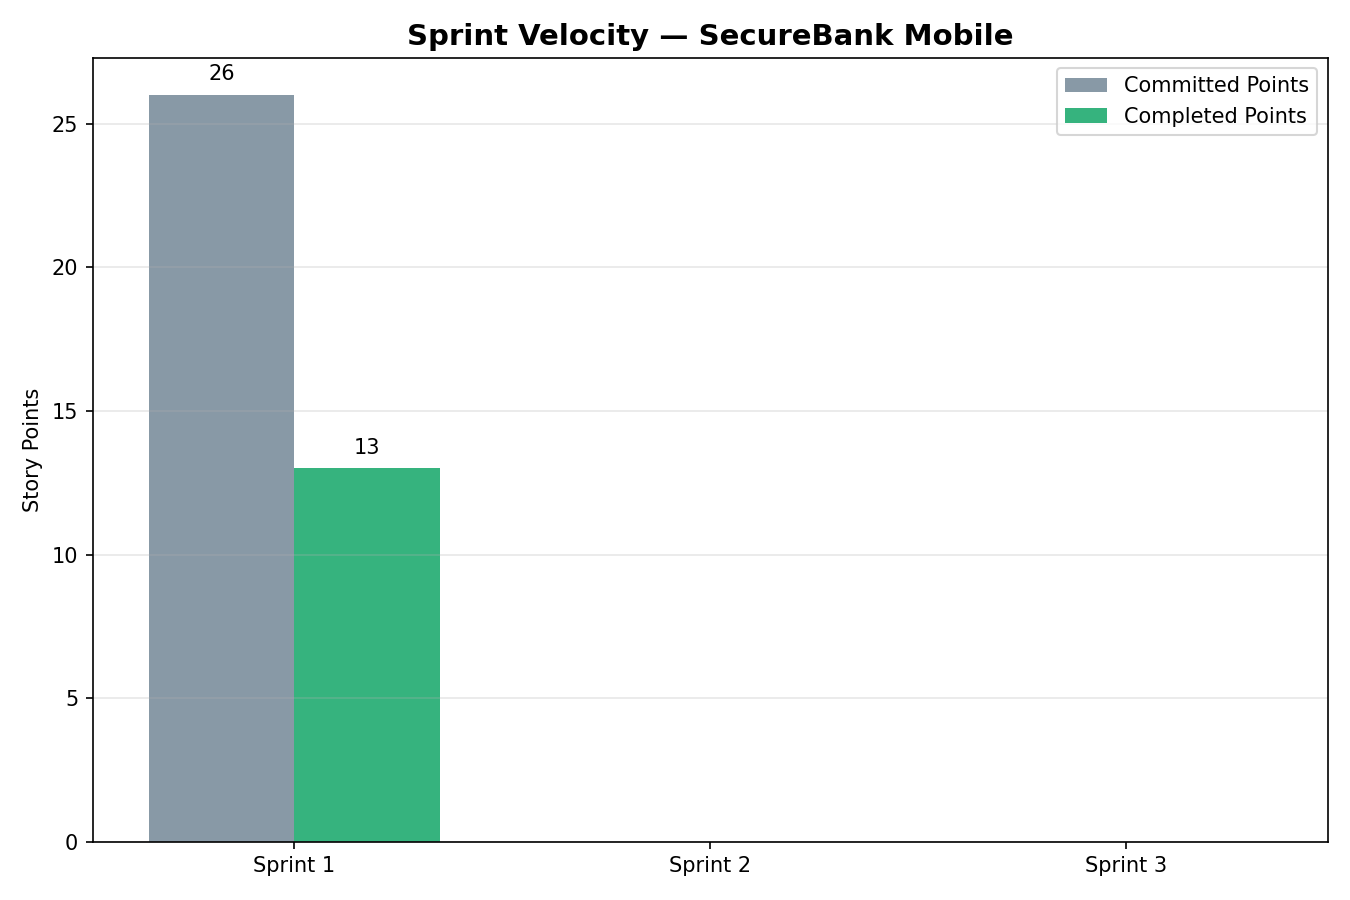
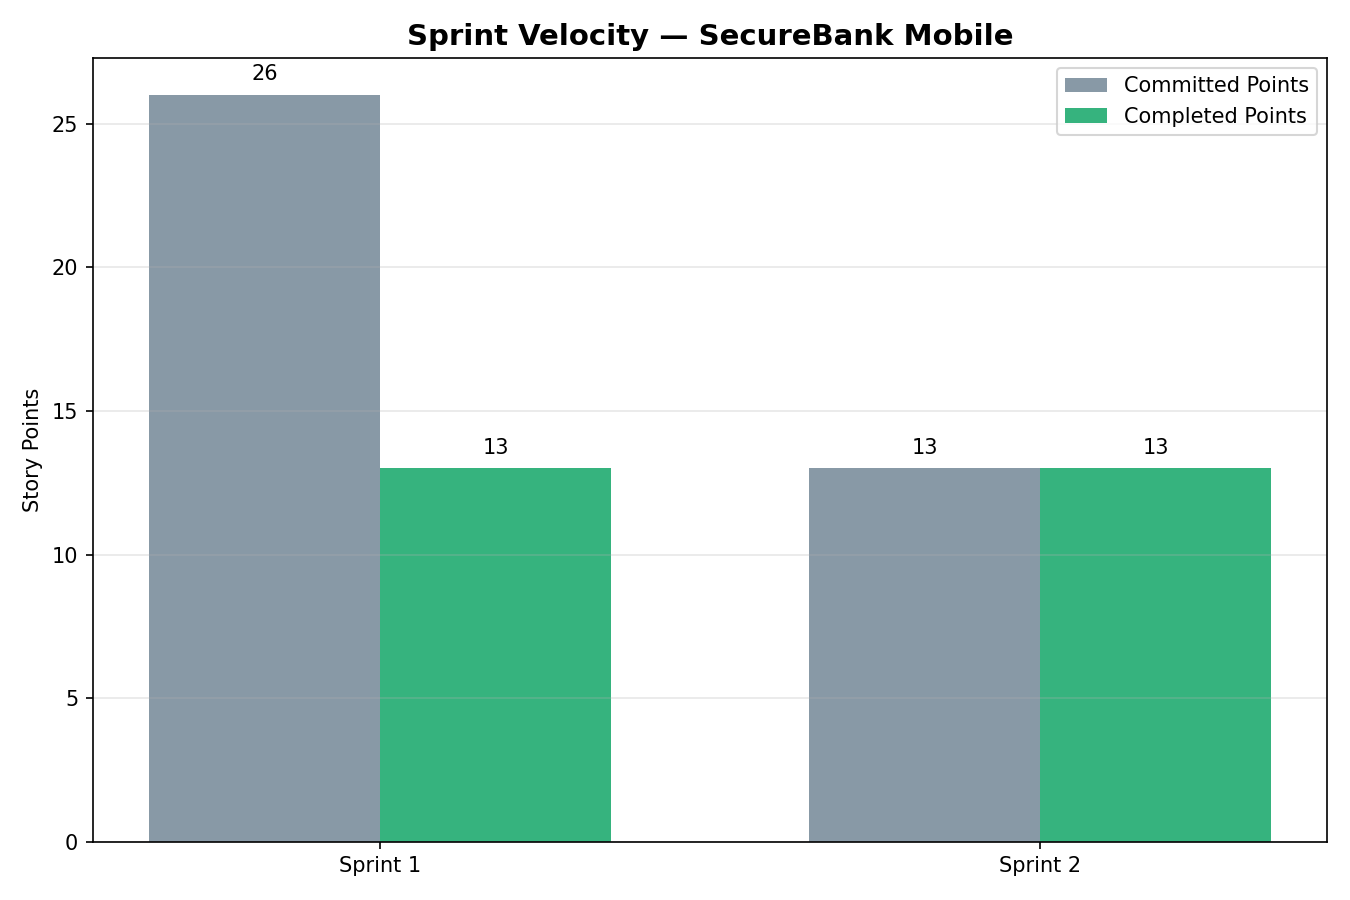
Add Sprint 2 data and burndown chart, refactor script for extensibility

diff --git a/scripts/sprint_charts.py b/scripts/sprint_charts.py
@@ -2,6 +2,10 @@
 SecureBank Mobile - Sprint Reporting Tool
 Generates Burndown and Velocity charts from sprint data.
 Built because the team's Jira tier did not include native burndown/velocity reports.
+
+To add a new sprint: append a new entry to the SPRINTS list below with the
+sprint's dates, committed points, and day-by-day remaining work, then re-run
+this script. All charts regenerate automatically.
 """
 
 import matplotlib.pyplot as plt
@@ -9,127 +13,152 @@ import matplotlib.dates as mdates
 from datetime import datetime, timedelta
 
 # ----------------------------
-# SPRINT 1 DATA (from Jira)
+# SPRINT DATA (from Jira)
 # ----------------------------
-SPRINT_NAME = "Sprint 1"
-START_DATE = datetime(2026, 7, 21)
-END_DATE = datetime(2026, 8, 4)
-COMMITTED_POINTS = 26
-
-# Stories completed in Sprint 1, with points
-COMPLETED_STORIES = {
-    "SCRUM-3 (Fingerprint login)": 5,
-    "SCRUM-4 (Face ID login)": 3,
-    "SCRUM-8 (Auto-logout)": 2,
-    "SCRUM-9 (Audit logging)": 3,
-}
-
-# Stories carried over to Sprint 2
-CARRIED_OVER_STORIES = {
-    "SCRUM-5 (MFA setup)": 5,
-    "SCRUM-7 (Password reset)": 5,
-    "SCRUM-30 (Fraud alert - unrecognized country)": 3,
-}
-
-TOTAL_COMPLETED = sum(COMPLETED_STORIES.values())
-TOTAL_CARRIED = sum(CARRIED_OVER_STORIES.values())
-
-# Simulated day-by-day actual remaining work (since Jira tier had no native burndown).
-# Reflects realistic pattern: slow start, mid-sprint scope change (SCRUM-30 added),
-# late completions of SCRUM-3/4/8/9.
-sprint_days = [(START_DATE + timedelta(days=i)) for i in range(11)]  # 10 working days + start
-actual_remaining = [26, 26, 24, 24, 21, 21, 21, 24, 19, 16, 13]  # bump at day 6 = scope change (+3 SCRUM-30)
-
-# Ideal burndown: linear from committed points to 0 over the sprint
-ideal_remaining = [
-    COMMITTED_POINTS - (COMMITTED_POINTS / (len(sprint_days) - 1)) * i
-    for i in range(len(sprint_days))
+SPRINTS = [
+    {
+        "name": "Sprint 1",
+        "start": datetime(2026, 7, 21),
+        "end": datetime(2026, 8, 4),
+        "committed": 26,
+        "completed_stories": {
+            "SCRUM-3 (Fingerprint login)": 5,
+            "SCRUM-4 (Face ID login)": 3,
+            "SCRUM-8 (Auto-logout)": 2,
+            "SCRUM-9 (Audit logging)": 3,
+        },
+        "carried_over_stories": {
+            "SCRUM-5 (MFA setup)": 5,
+            "SCRUM-7 (Password reset)": 5,
+            "SCRUM-30 (Fraud alert - unrecognized country)": 3,
+        },
+        # Simulated day-by-day actual remaining work (Jira tier had no native burndown).
+        # Bump at day 6 reflects a mid-sprint scope change (+3 pts, SCRUM-30 added,
+        # SCRUM-6 removed to hold total steady).
+        "actual_remaining": [26, 26, 24, 24, 21, 21, 21, 24, 19, 16, 13],
+        "scope_change": {
+            "day_index": 6,
+            "label": "Scope change:\n+3 pts (SCRUM-30 added,\nSCRUM-6 removed)",
+        },
+    },
+    {
+        "name": "Sprint 2",
+        "start": datetime(2026, 8, 5),
+        "end": datetime(2026, 8, 18),
+        "committed": 13,
+        "completed_stories": {
+            "SCRUM-5 (MFA setup)": 5,
+            "SCRUM-7 (Password reset)": 5,
+            "SCRUM-30 (Fraud alert - unrecognized country)": 3,
+        },
+        "carried_over_stories": {},
+        # Clean, steady completion - no scope change this sprint. Capacity was
+        # recalibrated to Sprint 1's actual velocity (13 pts), and the team hit it.
+        "actual_remaining": [13, 13, 11, 10, 8, 8, 6, 5, 3, 2, 0],
+        "scope_change": None,
+    },
+    # To add Sprint 3, copy the block above, fill in real data, and re-run.
 ]
 
-# ----------------------------
-# CHART 1: BURNDOWN CHART
-# ----------------------------
-fig, ax = plt.subplots(figsize=(10, 6))
 
-ax.plot(sprint_days, ideal_remaining, linestyle="--", color="#8899A6",
-        linewidth=2, label="Ideal Burndown")
-ax.plot(sprint_days, actual_remaining, marker="o", color="#2684FF",
-        linewidth=2.5, label="Actual Remaining Work")
+def total_points(stories: dict) -> int:
+    return sum(stories.values())
 
-# Annotate the scope-change bump
-ax.annotate(
-    "Scope change:\n+3 pts (SCRUM-30 added,\nSCRUM-6 removed)",
-    xy=(sprint_days[6], actual_remaining[6]),
-    xytext=(sprint_days[6] + timedelta(days=0.3), actual_remaining[6] + 4),
-    arrowprops=dict(arrowstyle="->", color="#FF5630"),
-    fontsize=9, color="#FF5630"
-)
 
-ax.set_title(f"{SPRINT_NAME} Burndown Chart — SecureBank Mobile", fontsize=14, fontweight="bold")
-ax.set_xlabel("Date")
-ax.set_ylabel("Remaining Story Points")
-ax.xaxis.set_major_formatter(mdates.DateFormatter("%b %d"))
-ax.set_ylim(0, 30)
-ax.legend(loc="upper right")
-ax.grid(True, alpha=0.3)
-fig.autofmt_xdate()
+def build_burndown_chart(sprint: dict):
+    start, end = sprint["start"], sprint["end"]
+    committed = sprint["committed"]
+    actual = sprint["actual_remaining"]
+    days = [start + timedelta(days=i) for i in range(len(actual))]
 
-plt.tight_layout()
-plt.savefig("/home/claude/sprint1_burndown.png", dpi=150)
-plt.close()
+    ideal = [
+        committed - (committed / (len(days) - 1)) * i
+        for i in range(len(days))
+    ]
 
-# ----------------------------
-# CHART 2: VELOCITY CHART
-# ----------------------------
-# Extend this dict as more sprints complete
-sprint_velocity = {
-    "Sprint 1": TOTAL_COMPLETED,
-    "Sprint 2": None,  # to be filled in after Sprint 2
-    "Sprint 3": None,
-}
+    fig, ax = plt.subplots(figsize=(10, 6))
+    ax.plot(days, ideal, linestyle="--", color="#8899A6", linewidth=2, label="Ideal Burndown")
+    ax.plot(days, actual, marker="o", color="#2684FF", linewidth=2.5, label="Actual Remaining Work")
 
-sprints = list(sprint_velocity.keys())
-committed = [COMMITTED_POINTS, None, None]
-completed = [sprint_velocity[s] if sprint_velocity[s] is not None else 0 for s in sprints]
+    if sprint["scope_change"]:
+        idx = sprint["scope_change"]["day_index"]
+        ax.annotate(
+            sprint["scope_change"]["label"],
+            xy=(days[idx], actual[idx]),
+            xytext=(days[idx] + timedelta(days=0.3), actual[idx] + 4),
+            arrowprops=dict(arrowstyle="->", color="#FF5630"),
+            fontsize=9, color="#FF5630",
+        )
 
-fig, ax = plt.subplots(figsize=(9, 6))
+    ax.set_title(f"{sprint['name']} Burndown Chart — SecureBank Mobile", fontsize=14, fontweight="bold")
+    ax.set_xlabel("Date")
+    ax.set_ylabel("Remaining Story Points")
+    ax.xaxis.set_major_formatter(mdates.DateFormatter("%b %d"))
+    ax.set_ylim(0, max(committed, max(actual)) + 4)
+    ax.legend(loc="upper right")
+    ax.grid(True, alpha=0.3)
+    fig.autofmt_xdate()
 
-x = range(len(sprints))
-bar_width = 0.35
+    plt.tight_layout()
+    filename = f"/home/claude/{sprint['name'].lower().replace(' ', '')}_burndown.png"
+    plt.savefig(filename, dpi=150)
+    plt.close()
+    return filename
 
-committed_vals = [COMMITTED_POINTS, 0, 0]  # only Sprint 1 has committed data so far
-ax.bar([i - bar_width/2 for i in x], committed_vals, width=bar_width,
-       label="Committed Points", color="#8899A6")
-ax.bar([i + bar_width/2 for i in x], completed, width=bar_width,
-       label="Completed Points", color="#36B37E")
 
-ax.set_xticks(list(x))
-ax.set_xticklabels(sprints)
-ax.set_ylabel("Story Points")
-ax.set_title("Sprint Velocity — SecureBank Mobile", fontsize=14, fontweight="bold")
-ax.legend()
-ax.grid(True, axis="y", alpha=0.3)
+def build_velocity_chart(sprints: list):
+    names = [s["name"] for s in sprints]
+    committed_vals = [s["committed"] for s in sprints]
+    completed_vals = [total_points(s["completed_stories"]) for s in sprints]
 
-# Value labels
-for i, v in enumerate(committed_vals):
-    if v > 0:
-        ax.text(i - bar_width/2, v + 0.5, str(v), ha="center", fontsize=10)
-for i, v in enumerate(completed):
-    if v > 0:
-        ax.text(i + bar_width/2, v + 0.5, str(v), ha="center", fontsize=10)
+    fig, ax = plt.subplots(figsize=(9, 6))
+    x = range(len(names))
+    bar_width = 0.35
 
-plt.tight_layout()
-plt.savefig("/home/claude/sprint_velocity.png", dpi=150)
-plt.close()
+    ax.bar([i - bar_width / 2 for i in x], committed_vals, width=bar_width,
+           label="Committed Points", color="#8899A6")
+    ax.bar([i + bar_width / 2 for i in x], completed_vals, width=bar_width,
+           label="Completed Points", color="#36B37E")
 
-# ----------------------------
-# SUMMARY OUTPUT
-# ----------------------------
-print(f"Sprint 1 Summary")
-print(f"Committed: {COMMITTED_POINTS} points")
-print(f"Completed: {TOTAL_COMPLETED} points ({len(COMPLETED_STORIES)} stories)")
-print(f"Carried over: {TOTAL_CARRIED} points ({len(CARRIED_OVER_STORIES)} stories)")
-print(f"Completion rate: {TOTAL_COMPLETED / COMMITTED_POINTS * 100:.0f}%")
-print("\nCharts saved:")
-print("- sprint1_burndown.png")
-print("- sprint_velocity.png")
+    ax.set_xticks(list(x))
+    ax.set_xticklabels(names)
+    ax.set_ylabel("Story Points")
+    ax.set_title("Sprint Velocity — SecureBank Mobile", fontsize=14, fontweight="bold")
+    ax.legend()
+    ax.grid(True, axis="y", alpha=0.3)
+
+    for i, v in enumerate(committed_vals):
+        ax.text(i - bar_width / 2, v + 0.5, str(v), ha="center", fontsize=10)
+    for i, v in enumerate(completed_vals):
+        ax.text(i + bar_width / 2, v + 0.5, str(v), ha="center", fontsize=10)
+
+    plt.tight_layout()
+    filename = "/home/claude/sprint_velocity.png"
+    plt.savefig(filename, dpi=150)
+    plt.close()
+    return filename
+
+
+def print_summary(sprint: dict):
+    committed = sprint["committed"]
+    completed = total_points(sprint["completed_stories"])
+    carried = total_points(sprint["carried_over_stories"])
+    print(f"\n{sprint['name']} Summary")
+    print(f"Committed: {committed} points")
+    print(f"Completed: {completed} points ({len(sprint['completed_stories'])} stories)")
+    if carried:
+        print(f"Carried over: {carried} points ({len(sprint['carried_over_stories'])} stories)")
+    print(f"Completion rate: {completed / committed * 100:.0f}%")
+
+
+if __name__ == "__main__":
+    burndown_files = [build_burndown_chart(s) for s in SPRINTS]
+    velocity_file = build_velocity_chart(SPRINTS)
+
+    for s in SPRINTS:
+        print_summary(s)
+
+    print("\nCharts saved:")
+    for f in burndown_files:
+        print(f"- {f}")
+    print(f"- {velocity_file}")
